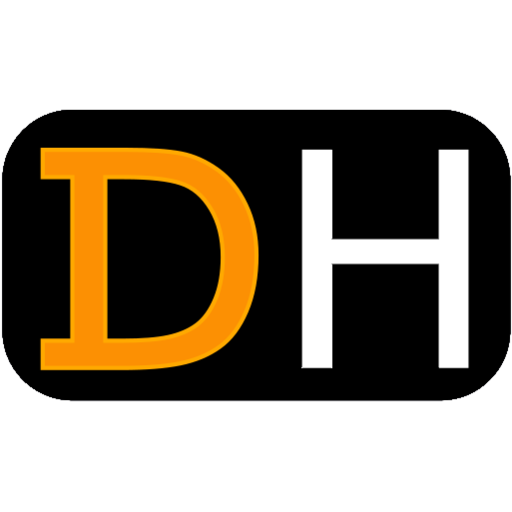
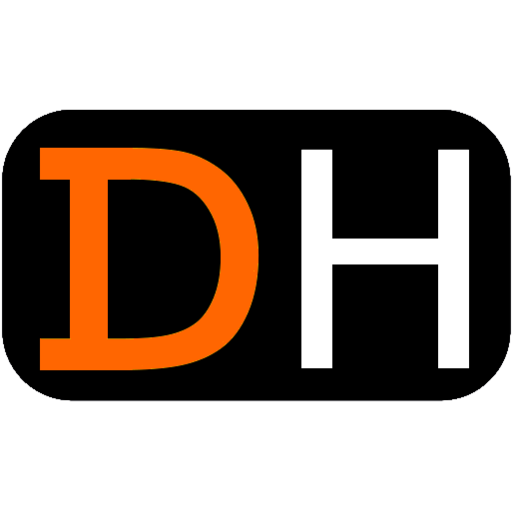
Made all the orange colours the same shade

diff --git a/index.html b/index.html
@@ -18,8 +18,8 @@
 		integrity="sha256-9/aliU8dGd2tb6OSsuzixeV4y/faTqgFtohetphbbj0=" crossorigin="anonymous"></script>
 	<script src="https://kit.fontawesome.com/53ec121b0c.js" crossorigin="anonymous"></script>
 	<link rel="manifest" href="/site.webmanifest">
-	<meta name="msapplication-TileColor" content="#bfbfbf">
-	<meta name="theme-color" content="#2d89ef">
+	<meta name="msapplication-TileColor" content="#ff6601">
+	<meta name="theme-color" content="#ff6601">
 	<title>Home | DeveloHub</title>
 	<style>
 		div.topnav {
@@ -40,17 +40,17 @@
 			margin-right: 3px;
 			margin-left: 10px;
 			padding-top: 7px;
-			-o-transition: .6s;
-			-ms-transition: .6s;
-			-moz-transition: .6s;
-			-webkit-transition: .6s;
-			transition: .6s;
+			-o-transition: 0.5s;
+			-ms-transition: 0.5s;
+			-moz-transition: 0.5s;
+			-webkit-transition: 0.5s;
+			transition: 0.5s;
 		}
 		div.topnav a.fas {
 			float: left;
 		}
 		div.topnav a:hover {
-			color: orange;
+			color: #ff6601;
 		}
 		div.topnav h1 {
 			margin-top: -9px;
@@ -58,7 +58,7 @@
 			margin-left: 2px;
 		}
 		div.topnav #develo {
-			color: orange;
+			color: #ff6601;
 			font-family: 'Courier Prime', monospace;
 			font-size: larger;
 		}

diff --git a/style.css b/style.css
@@ -21,11 +21,11 @@ div.topnav a {
     margin-right: 3px;
     margin-left: 10px;
     margin-top: 7px;
-    -o-transition: .6s;
-    -ms-transition: .6s;
-    -moz-transition: .6s;
-    -webkit-transition: .6s;
-    transition: .6s;
+    -o-transition: 0.5s;
+    -ms-transition: 0.5s;
+    -moz-transition: 0.5s;
+    -webkit-transition: 0.5s;
+    transition: 0.5s;
 }
 
 div.topnav a.fas {
@@ -33,7 +33,7 @@ div.topnav a.fas {
 }
 
 div.topnav a:hover {
-    color: orange;
+    color: #ff6601;
 }
 
 div.topnav h1 {
@@ -43,7 +43,7 @@ div.topnav h1 {
 }
 
 div.topnav #develo {
-    color: orange;
+    color: #ff6601;
     font-family: 'Courier Prime';
     font-size: larger;
 }

diff --git a/arch-beginners-guide.html b/arch-beginners-guide.html
@@ -16,8 +16,8 @@
     <script src="https://code.jquery.com/jquery-3.5.1.min.js" integrity="sha256-9/aliU8dGd2tb6OSsuzixeV4y/faTqgFtohetphbbj0=" crossorigin="anonymous"></script>
     <script src="https://kit.fontawesome.com/53ec121b0c.js" crossorigin="anonymous"></script>
     <link rel="manifest" href="/site.webmanifest">
-    <meta name="msapplication-TileColor" content="#ffffff">
-    <meta name="theme-color" content="#2d89ef">
+    <meta name="msapplication-TileColor" content="#ff6601">
+    <meta name="theme-color" content="#ff6601">
     <title>Beginner's Guide to Arch Linux and its Derivatives | DeveloHub</title>
 </head>
 

diff --git a/consider-linux.html b/consider-linux.html
@@ -16,8 +16,8 @@
     <script src="https://code.jquery.com/jquery-3.5.1.min.js" integrity="sha256-9/aliU8dGd2tb6OSsuzixeV4y/faTqgFtohetphbbj0=" crossorigin="anonymous"></script>
     <script src="https://kit.fontawesome.com/53ec121b0c.js" crossorigin="anonymous"></script>
     <link rel="manifest" href="/site.webmanifest">
-    <meta name="msapplication-TileColor" content="#ffffff">
-    <meta name="theme-color" content="#2d89ef">
+    <meta name="msapplication-TileColor" content="#ff6601">
+    <meta name="theme-color" content="#ff6601">
     <title>Why You Should Consider Linux | DeveloHub</title>
 </head>
 

diff --git a/404.html b/404.html
@@ -16,8 +16,8 @@
     <script src="https://code.jquery.com/jquery-3.5.1.min.js" integrity="sha256-9/aliU8dGd2tb6OSsuzixeV4y/faTqgFtohetphbbj0=" crossorigin="anonymous"></script>
     <script src="https://kit.fontawesome.com/53ec121b0c.js" crossorigin="anonymous"></script>
     <link rel="manifest" href="/site.webmanifest">
-    <meta name="msapplication-TileColor" content="#ffffff">
-    <meta name="theme-color" content="#2d89ef">
+    <meta name="msapplication-TileColor" content="#ff6601">
+    <meta name="theme-color" content="#ff6601">
     <title>404 Not Found | DeveloHub</title>
 </head>
 

diff --git a/hosting-on-github.html b/hosting-on-github.html
@@ -16,8 +16,8 @@
 	<script src="https://code.jquery.com/jquery-3.5.1.min.js" integrity="sha256-9/aliU8dGd2tb6OSsuzixeV4y/faTqgFtohetphbbj0=" crossorigin="anonymous"></script>
 	<script src="https://kit.fontawesome.com/53ec121b0c.js" crossorigin="anonymous"></script>
 	<link rel="manifest" href="/site.webmanifest">
-	<meta name="msapplication-TileColor" content="#2d89ef">
-	<meta name="theme-color" content="#2d89ef">
+	<meta name="msapplication-TileColor" content="#ff6601">
+	<meta name="theme-color" content="#ff6601">
 	<title>Hosting Your Website On GitHub | DeveloHub</title>
 </head>
 
